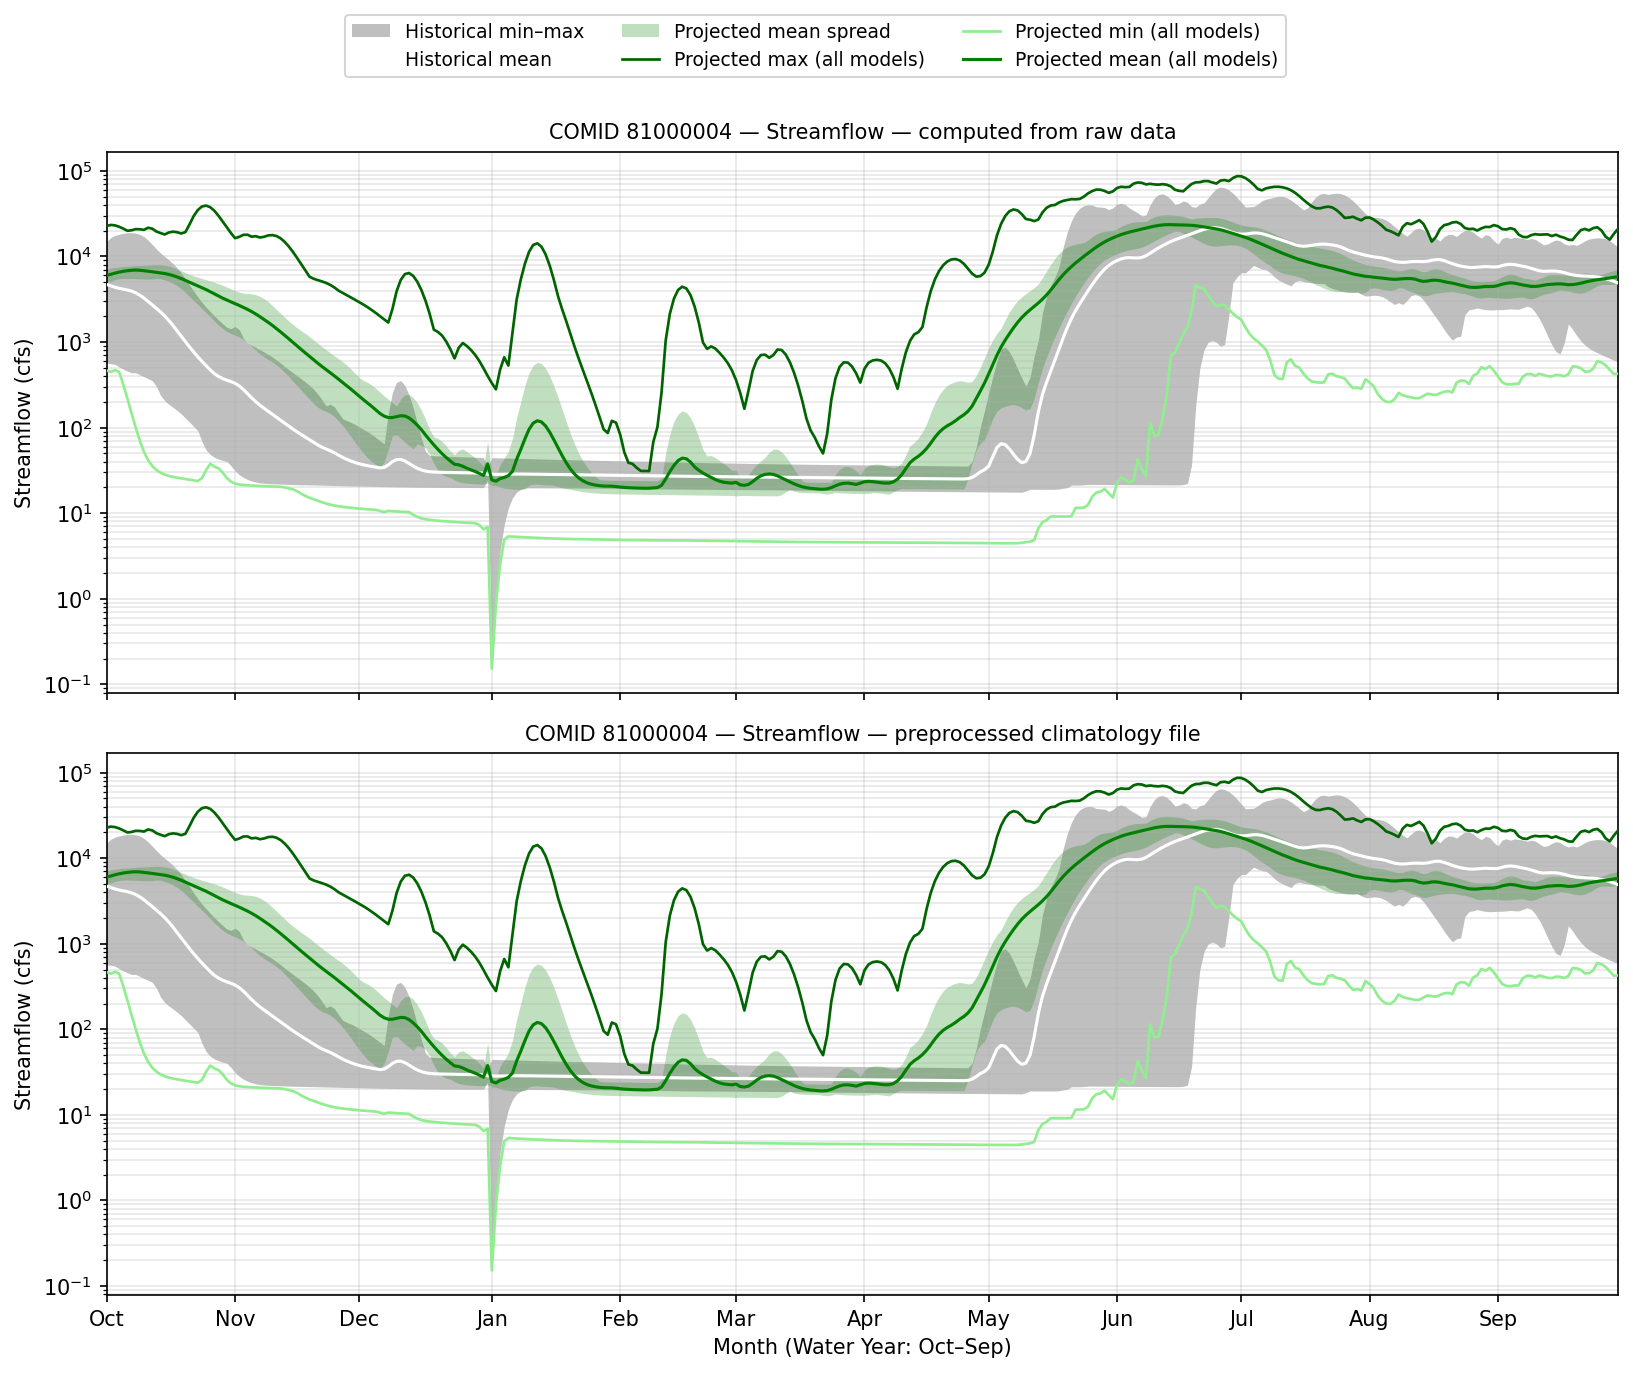
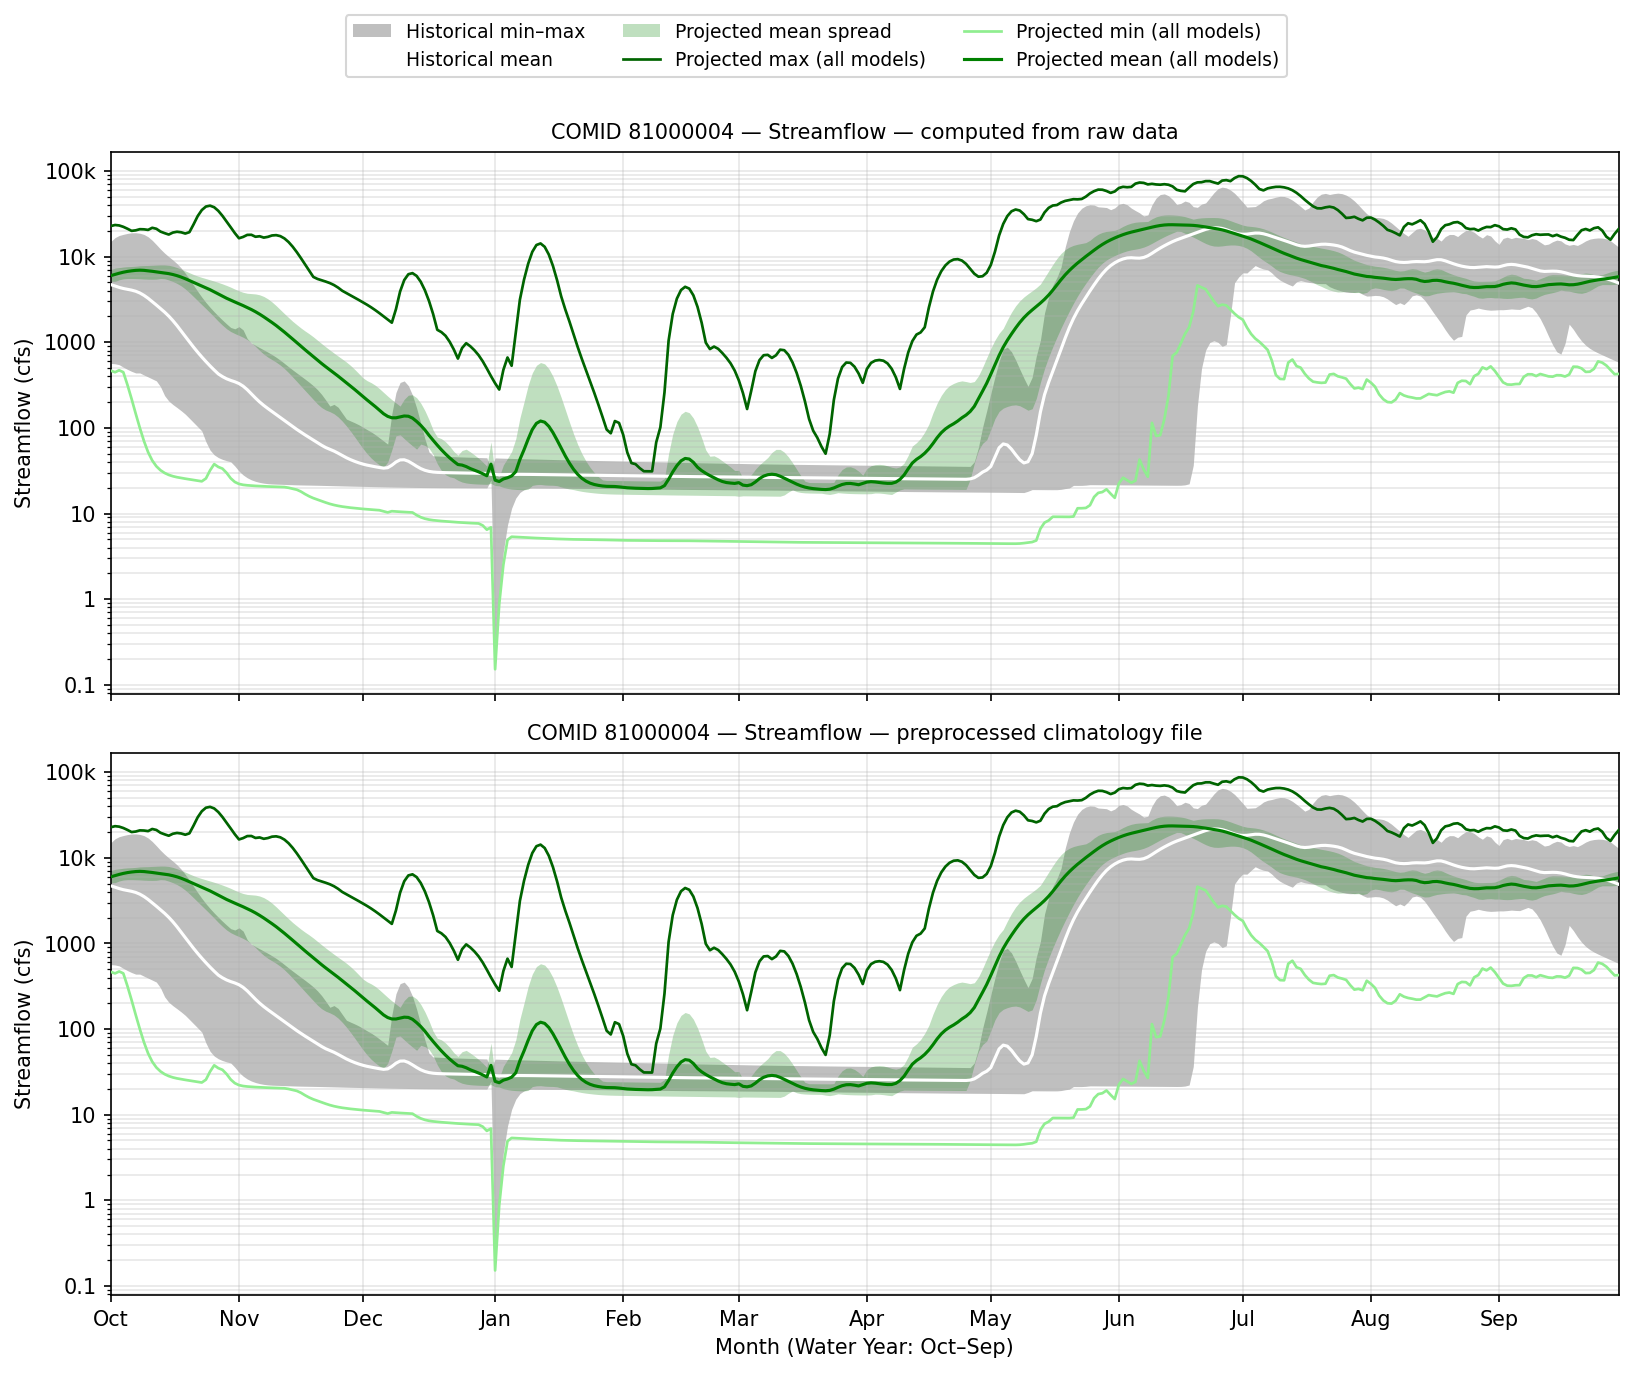
fix y axis, add 5 random test COMIDs

diff --git a/test/hydrograph_by_comid.py b/test/hydrograph_by_comid.py
@@ -16,6 +16,7 @@ import matplotlib
 
 matplotlib.use("Agg")
 import matplotlib.pyplot as plt
+from matplotlib.ticker import FuncFormatter, NullFormatter
 
 RAW_Q = "/beegfs/CMIP6/jdpaul3/arctic_rivers_data/combined_q.nc"
 RAW_WT = "/beegfs/CMIP6/jdpaul3/arctic_rivers_data/combined_wt.nc"
@@ -97,6 +98,20 @@ def build_panel(ds):
     }
 
 
+def format_log_tick(value, _pos=None):
+    """Render log-axis ticks as plain numbers (1, 10, 1000) with k/M/B suffixes
+    above 10,000, matching the front-end app's axis style instead of 10^n."""
+    if value <= 0:
+        return ""
+    if value >= 10_000:
+        for divisor, suffix in ((1e9, "B"), (1e6, "M"), (1e3, "k")):
+            if value >= divisor:
+                return f"{value / divisor:g}{suffix}"
+    if value == int(value):
+        return f"{int(value)}"
+    return f"{value:g}"
+
+
 def water_year_order(doy_values):
     """Index order that rotates calendar day-of-year so Oct 1 plots first and Sep 30 last."""
     water_year_start_doy = datetime.date(2001, 10, 1).timetuple().tm_yday
@@ -137,6 +152,8 @@ def plot_panel(ax, panel, cfg, title):
 
     if cfg["log_scale"]:
         ax.set_yscale("log")
+        ax.yaxis.set_major_formatter(FuncFormatter(format_log_tick))
+        ax.yaxis.set_minor_formatter(NullFormatter())
 
     ticks, labels = month_ticks(doy_ordered)
     ax.set_xticks(ticks)